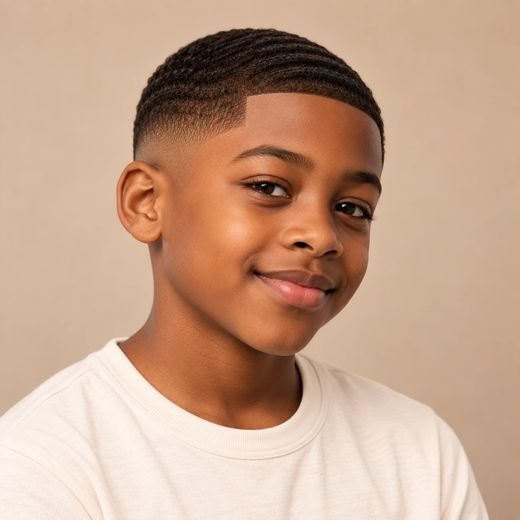
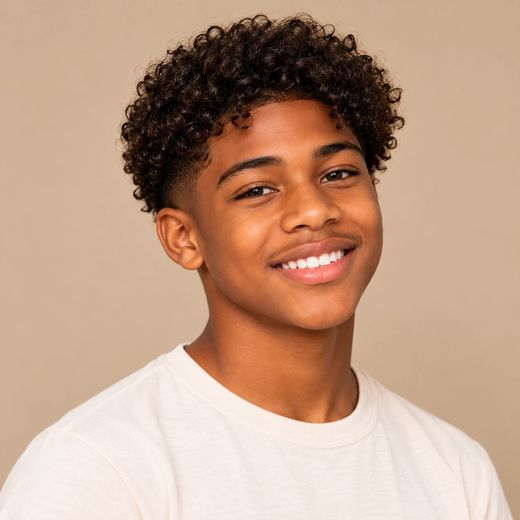
Finder: older teen portrait on the Tiny Heirs Teen tile (#66)
Teen now shows a teen with curls and a taper; the waves portrait that
stood in for Teen moves to boy.jpg and stays on the Boy tile.

Claude-Session: https://claude.ai/code/session_01B28xoDsLopYNxELfd7rDtE

diff --git a/public/index.html b/public/index.html
@@ -1194,7 +1194,7 @@ footer a:hover { color: var(--ink); }
           <div class="card-body"><h3>Child</h3><p>6–12 years</p></div>
         </div>
         <div class="card" style="overflow:hidden;cursor:pointer;text-align:center" onclick="pickTinyAge('teen',this)">
-          <div class="card-vis vis-photo" style="aspect-ratio:4/3;background-position:center 35%;background-image:url('/images/tiny/teen.jpg')" role="img" aria-label="Boy with a waves cut"></div>
+          <div class="card-vis vis-photo" style="aspect-ratio:4/3;background-position:center 35%;background-image:url('/images/tiny/teen.jpg')" role="img" aria-label="Teen with curls and a taper"></div>
           <div class="card-body"><h3>Teen</h3><p>13+ years</p></div>
         </div>
       </div>
@@ -1219,7 +1219,7 @@ footer a:hover { color: var(--ink); }
           <div class="card-body"><h3>Girl</h3></div>
         </div>
         <div class="card" style="overflow:hidden;cursor:pointer;text-align:center" onclick="pickTinyGender('boy',this)">
-          <div class="card-vis vis-photo" style="aspect-ratio:4/3;background-position:center 35%;background-image:url('/images/tiny/teen.jpg')" role="img" aria-label="Boy with a waves cut"></div>
+          <div class="card-vis vis-photo" style="aspect-ratio:4/3;background-position:center 35%;background-image:url('/images/tiny/boy.jpg')" role="img" aria-label="Boy with a waves cut"></div>
           <div class="card-body"><h3>Boy</h3></div>
         </div>
       </div>
